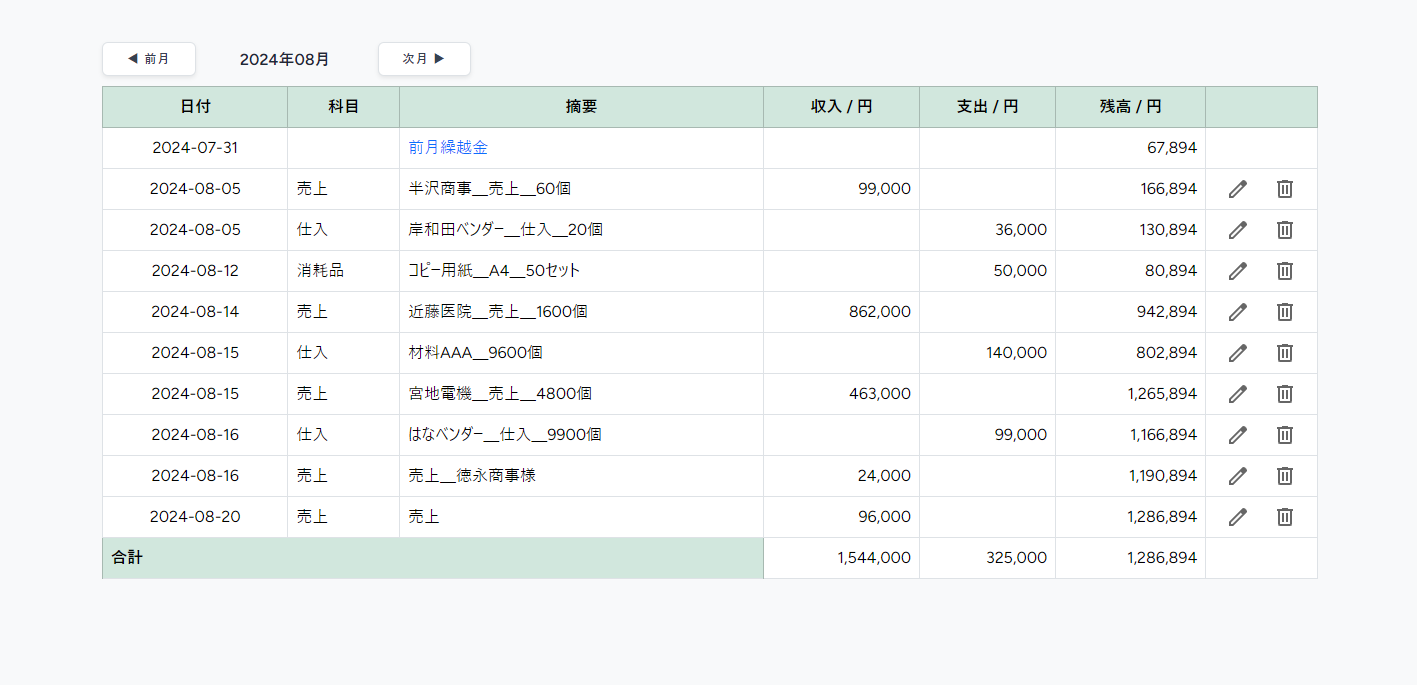
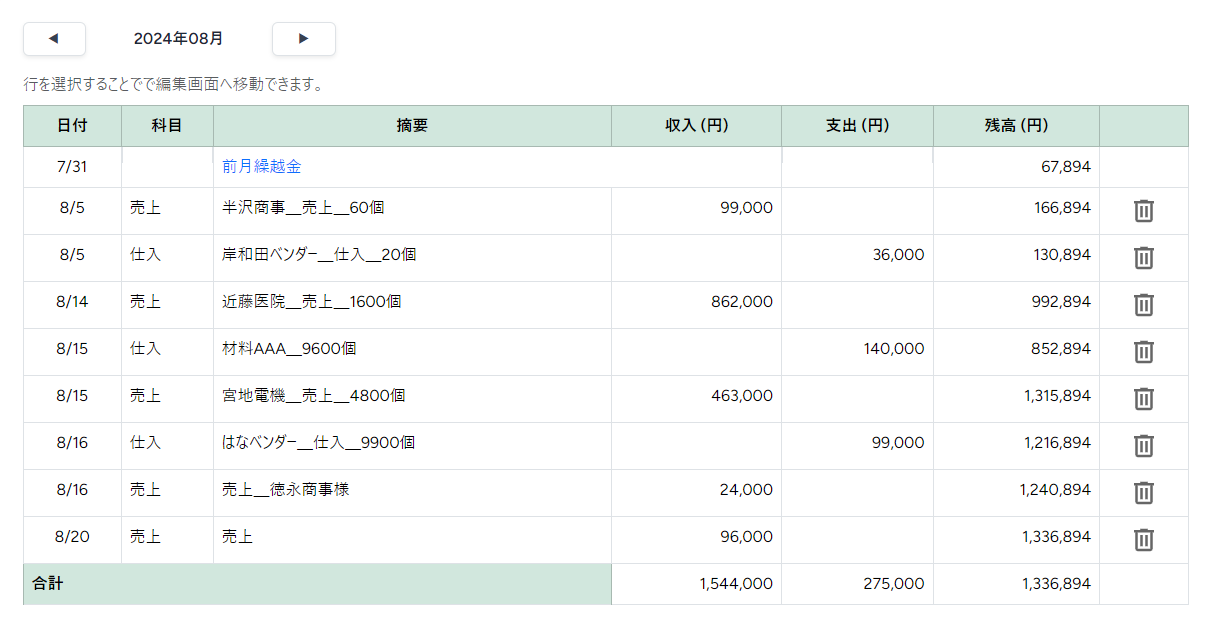
使用方法の画像差し替え

diff --git a/resources/views/document.blade.php b/resources/views/document.blade.php
@@ -48,6 +48,10 @@ $contents = [
                     <div class="">
                         <div
                             class="border border-dark flex flex-col items-start gap-6 overflow-hidden rounded-lg bg-white p-6 shadow-[0px_14px_34px_0px_rgba(0,0,0,0.08)] ring-1 ring-white/[0.05] transition duration-300 md:row-span-3 lg:p-10 lg:pb-10 mb-3">
+                            <p>画面のサンプルはPC版の画面となります。スマートフォンやタブレット端末ではレイアウトが少し異なりますが、基本的な使用方法としては大きな違いはありません。
+                                <br>
+                            スマートフォンは上部のナビバーが隠れている場合がございますので、メニュが見つからない場合は右上のボタンよりメニュを表示させてください。
+                            </p>
                             <h2 class="text-xl font-semibold text-black">目次</h2>
                             <ul>
                                 @foreach ($contents as $content)

diff --git a/resources/views/livewire/document/transaction_list.blade.php b/resources/views/livewire/document/transaction_list.blade.php
@@ -1,7 +1,7 @@
 <div>
     <p>上部ナビバーから一覧を選択し、以下の画面へ移動してください。</p>
     <p>初回ログイン時は以下のような画面となります。作成画面で保存を行うと一覧に収支が表示されます。</p>
-    <p class="text-danger">※「前月残高確定」を押すと前月以前の収支について追加・修正ができなくなってしまうため、ご注意ください。（以下の図では2024年08月以前が変更できなくなります）</p>
+    <p class="text-danger">※「前月残高確定」を押すと前月以前の収支について追加・修正ができなくなってしまうため、ご注意ください。（以下の図では2024年09月以前が変更できなくなります）</p>
     <div class="border mb-5">
         <img src="{{ asset('storage/document/transaction_list_1.png') }}" alt="">
     </div>

diff --git a/resources/views/livewire/document/transaction_edit.blade.php b/resources/views/livewire/document/transaction_edit.blade.php
@@ -1,8 +1,6 @@
 <div>
     <p>上部ナビバーから一覧を選択し、以下の画面へ移動してください。</p>
-    <p>修正したい項目の右部分 <img
-        src="{{ asset('storage/edit_24dp_666666_FILL0_wght400_GRAD0_opsz24.svg') }}"
-        alt="" class="d-inline-block">を押します。（例としてコピー用紙のサイズを変更します）</p>
+    <p>修正したい行を押します。（例としてコピー用紙のサイズを変更します）</p>
     <div class="border mb-5">
         <img src="{{ asset('storage/document/transaction_edit_1.png') }}" alt="">
     </div>
